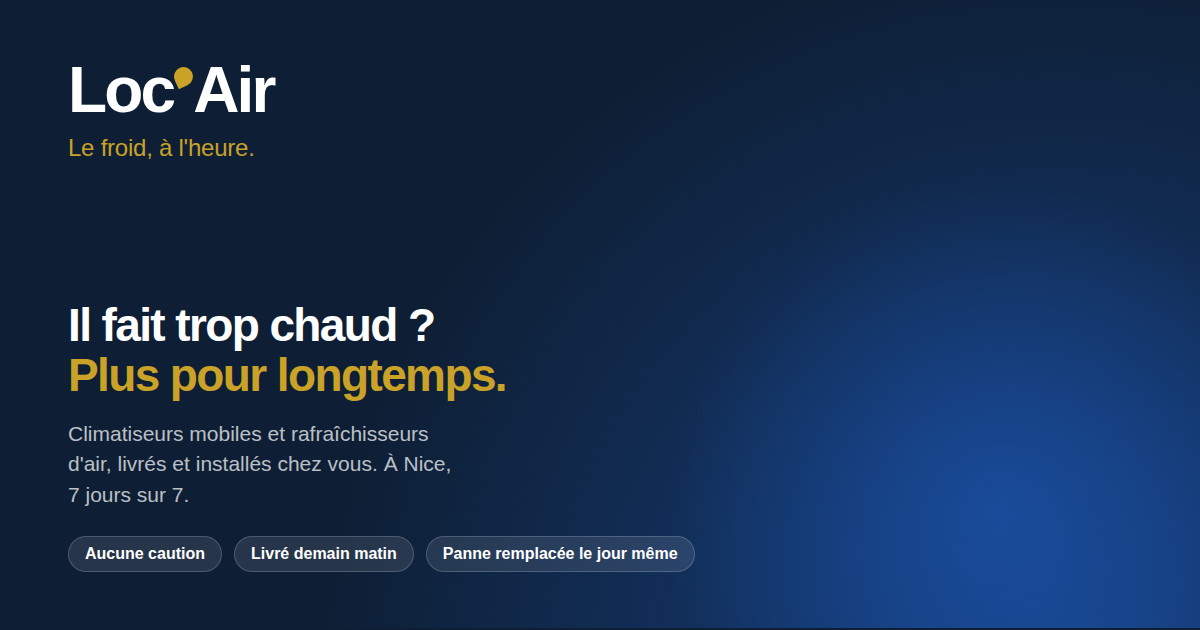
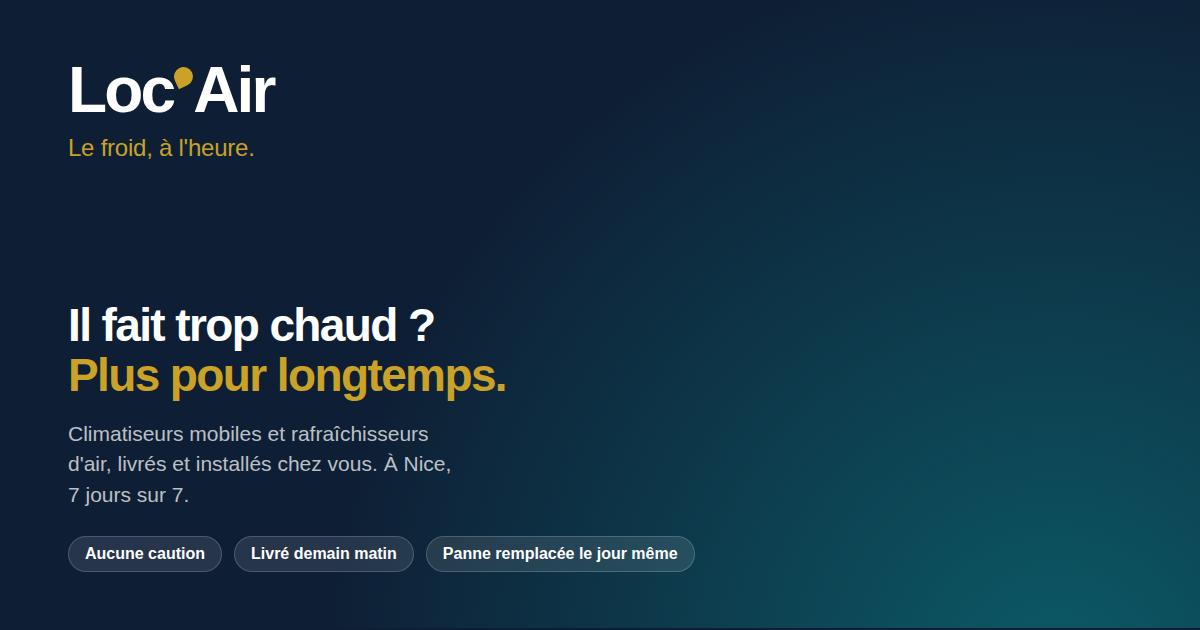
Une couleur qui appartient à Loc'Air
Marine + bleu roi + or, c'est la palette de toutes les banques en ligne :
rien ne s'y retient. Le bleu roi (#1D5BBF) laisse la place à une sarcelle
profonde (#0B6E77) — la couleur de l'eau et de l'air froid, exactement ce
que Loc'Air vend. Elle ne ressemble à aucun loueur de matériel, et
sarcelle + or est un couple que personne ne confond.

Le nom du jeton change aussi : --blue devient --vif. Il dit ce qu'il fait
— porter l'action — et non plus une couleur qui a changé. Zéro référence
à --blue reste dans le fichier.

DEUX TEXTES REMONTÉS AU PASSAGE

La sarcelle est un peu plus claire que l'ancien bleu roi : un blanc
translucide y contraste moins. Mesuré sur l'écran « Une panne ? » :
  le paragraphe, blanc à 78 %   4,31:1   sous la norme (4,5)
  la mention, blanc à 55 %      2,95:1   très en dessous
Les deux passent à 84 % : 4,74:1. Sur le marine, ils restent à 11,9:1.

TOUS LES CONTRASTES, VÉRIFIÉS

  bouton principal, blanc sur sarcelle       5,98:1
  lien sarcelle sur blanc                    5,98:1
  lien sarcelle sur la brume                 5,57:1
  survol (#08565E) sur blanc                 8,39:1
  titres blancs sur l'écran sarcelle         5,98:1
  surtitre blanc 82 %                        4,59:1
  la barre posée sur la sarcelle             9,84:1

La carte de partage est refaite dans la nouvelle couleur : sa nappe passe
du bleu roi à la sarcelle.

Vérifié au navigateur, les deux pages, 4 langues, de 320 à 1440 px :
[…]

Changed region(s): [[0.5858, 0.3921, 1.0, 1.0]]

diff --git a/locair.css b/locair.css
@@ -15,7 +15,17 @@
   /* Mesuré : l'ancien #95A3B3 donnait 2,57 pour 1 sur blanc, très en
      dessous du minimum lisible (4,5 selon WCAG AA). Assombri jusqu'à passer aussi sur le gris clair : 4,86. */
   --ink-3:#5F6E80;
-  --blue:#1D5BBF; --blue-d:#17489A; --blue-soft:#EEF3FC;
+  /* ── LA COULEUR D'ACTION ───────────────────────────────────────────────
+     Marine + bleu roi + or, c'est la palette de toutes les banques en
+     ligne : rien ne s'y retient. Le bleu roi laisse la place à une
+     sarcelle profonde — la couleur de l'eau et de l'air froid, exactement
+     ce que Loc'Air vend. Elle ne ressemble à aucun loueur, elle tient
+     très bien avec l'or (le seul couple de la marque), et elle passe
+     largement la norme d'accessibilité : blanc dessus 5,98:1, elle-même
+     en texte sur blanc 5,98:1, sur la brume 5,57:1.
+     Le nom du jeton dit ce qu'il fait — l'action — et non plus une
+     couleur qui a changé. */
+  --vif:#0B6E77; --vif-d:#08565E; --vif-clair:#E9F4F5;
   --gold:#C9A227;       /* accent — sur fond SOMBRE uniquement */
   /* Le même or sur blanc ne donne que 2,42 pour 1. Sur fond clair on
      utilise cette version assombrie (4,76), qui garde la teinte. */
@@ -90,7 +100,7 @@ button{font:inherit;cursor:pointer;border:none;background:none;color:inherit}
    L'anneau prend donc la couleur qui se voit sur son fond. Sur le marine
    c'est l'or de la marque : le repère d'accessibilité devient un signe
    de la marque au lieu d'un réglage de navigateur. */
-:root{--focus:var(--blue)}                    /* blanc, brume  → 6,36:1 */
+:root{--focus:var(--vif)}                    /* blanc, brume  → 6,36:1 */
 .e-ink,.menu,.cook,.infobar{--focus:var(--gold)}  /* marine    → 6,86:1 */
 .e-blue,.bar{--focus:#fff}          /* bleu, barre   → 6,36:1 */
 :focus-visible{outline:2.5px solid var(--focus);outline-offset:4px;border-radius:var(--r-s)}
@@ -112,7 +122,7 @@ button{font:inherit;cursor:pointer;border:none;background:none;color:inherit}
 
 /* fonds */
 .e-ink{background:var(--ink);color:var(--paper)}
-.e-blue{background:var(--blue);color:var(--paper)}
+.e-blue{background:var(--vif);color:var(--paper)}
 .e-mist{background:var(--mist)}
 
 /* ══ TYPOGRAPHIE ══
@@ -162,7 +172,7 @@ button{font:inherit;cursor:pointer;border:none;background:none;color:inherit}
 }
 .kicker{
   display:block;font-size:var(--s-1);font-weight:700;letter-spacing:var(--l-6);
-  text-transform:uppercase;color:var(--blue);margin-bottom:28px;
+  text-transform:uppercase;color:var(--vif);margin-bottom:28px;
 }
 .e-ink .kicker,.e-blue .kicker{color:var(--gold)}
 .e-blue .kicker{color:rgba(255,255,255,.82)}
@@ -175,19 +185,22 @@ button{font:inherit;cursor:pointer;border:none;background:none;color:inherit}
 .titre.t-2{font-size:var(--t-2)}
 .titre.t-3{font-size:var(--t-3)}
 .titre.t-4{font-size:var(--t-4)}
-.titre em{font-style:normal;color:var(--blue)}
+.titre em{font-style:normal;color:var(--vif)}
 .e-ink .titre em{color:var(--gold)}
 .e-blue .titre em,.e-ink.e-alt .titre em{color:#fff}
 .dire{font-size:var(--t-6);color:var(--ink-2);line-height:var(--h-4);max-width:44ch;margin-top:28px;letter-spacing:var(--l-4)}
 .e-ink .dire{color:rgba(255,255,255,.6)}
-.e-blue .dire{color:rgba(255,255,255,.78)}
+/* Mesuré sur la sarcelle : le blanc à 78 % donnait 4,31:1, sous la norme.
+   À 84 % il remonte à 4,76:1 — et sur le marine il reste à 11,9:1. */
+.e-blue .dire{color:rgba(255,255,255,.84)}
 .geant{
   font-size:var(--n-1);font-weight:700;letter-spacing:var(--l-1);
   line-height:.86;display:block;
 }
 .geant small{font-size:.24em;letter-spacing:var(--l-3);font-weight:700}
 .mini{font-size:var(--s-3);color:var(--ink-3);margin-top:22px;line-height:var(--h-4);max-width:40ch}
-.e-ink .mini,.e-blue .mini{color:rgba(255,255,255,.55)}
+.e-ink .mini{color:rgba(255,255,255,.55)}
+.e-blue .mini{color:rgba(255,255,255,.84)}
 
 /* ══ BOUTONS ══ */
 .btn{
@@ -195,8 +208,8 @@ button{font:inherit;cursor:pointer;border:none;background:none;color:inherit}
   padding:18px 32px;border-radius:var(--r-f);font-weight:700;font-size:var(--s-5);
   letter-spacing:var(--l-4);transition:background var(--mv-1) var(--mv),transform var(--mv-1) var(--mv),border-color var(--mv-1) var(--mv);
 }
-.btn-1{background:var(--blue);color:#fff}
-.btn-1:hover{background:var(--blue-d);transform:translateY(-2px)}
+.btn-1{background:var(--vif);color:#fff}
+.btn-1:hover{background:var(--vif-d);transform:translateY(-2px)}
 .btn-light{background:#fff;color:var(--ink)}
 /* Le bouton de la carte ambassadeur portait une classe qui n'existait
    nulle part : il s'affichait en texte nu, sans forme de bouton. Sur
@@ -400,7 +413,7 @@ button{font:inherit;cursor:pointer;border:none;background:none;color:inherit}
 }
 .etat-pt{
   /* même goutte que l'apostrophe du nom, en petit */
-  width:9px;height:9px;border-radius:50% 50% 50% 0;background:var(--blue);
+  width:9px;height:9px;border-radius:50% 50% 50% 0;background:var(--vif);
   flex-shrink:0;transform:translateY(-1px) rotate(-25deg);
   animation:pulse 2.4s ease-in-out infinite;
 }
@@ -447,7 +460,7 @@ button{font:inherit;cursor:pointer;border:none;background:none;color:inherit}
   transition:box-shadow var(--mv-1) var(--mv),border-color var(--mv-1) var(--mv);
 }
 .attente-i::placeholder{color:var(--ink-3)}
-.attente-i:focus{outline:none;border-color:var(--blue);box-shadow:0 0 0 3px rgba(29,91,191,.16)}
+.attente-i:focus{outline:none;border-color:var(--vif);box-shadow:0 0 0 3px rgba(29,91,191,.16)}
 .attente-b{flex:0 0 auto}
 .attente-m{font-size:var(--s-2);line-height:var(--h-4);color:var(--ink-3);margin-top:11px}
 .attente-ok{color:var(--green);font-weight:700}
@@ -505,11 +518,11 @@ button{font:inherit;cursor:pointer;border:none;background:none;color:inherit}
   transition:box-shadow var(--mv-1) var(--mv),border-color var(--mv-1) var(--mv);
 }
 .ch input::placeholder{color:var(--ink-3)}
-.ch input:focus{outline:none;border-color:var(--blue);box-shadow:0 0 0 3px rgba(29,91,191,.16)}
+.ch input:focus{outline:none;border-color:var(--vif);box-shadow:0 0 0 3px rgba(29,91,191,.16)}
 .ch:first-child,.ch:nth-child(2){grid-column:span 1}
 .form-b{margin-top:14px}
 .form-note{font-size:var(--s-2);line-height:var(--h-4);color:var(--ink-3);margin:11px 0 0;max-width:56ch}
-.form-note.form-err{color:var(--blue);font-weight:700}
+.form-note.form-err{color:var(--vif);font-weight:700}
 @media(max-width:700px){
   .form-l{grid-template-columns:1fr}
   .form-b{width:100%;justify-content:center}
@@ -543,7 +556,7 @@ button{font:inherit;cursor:pointer;border:none;background:none;color:inherit}
   display:flex;align-items:center;justify-content:center;
   width:30px;height:30px;border-radius:50%;margin-bottom:6px;
   font-size:var(--s-3);font-weight:700;font-variant-numeric:tabular-nums;
-  background:var(--blue);color:#fff;
+  background:var(--vif);color:#fff;
 }
 .etapes b{font-size:var(--s-5);line-height:var(--h-2);letter-spacing:var(--l-3);color:var(--ink)}
 .etapes span:not(.etape-n){font-size:var(--s-3);line-height:var(--h-4);color:var(--ink-2)}
@@ -788,7 +801,7 @@ button{font:inherit;cursor:pointer;border:none;background:none;color:inherit}
 .addr{background:#fff;border-radius:var(--r-l);padding:18px;margin-top:28px;max-width:460px;box-shadow:var(--o-2)}
 .addr label{display:block;font-size:var(--s-1);font-weight:700;letter-spacing:var(--l-6);text-transform:uppercase;color:var(--ink-3);margin-bottom:13px}
 .addr-row{display:flex;align-items:center;gap:12px;background:var(--mist);border-radius:var(--r);padding:15px 17px;transition:box-shadow var(--mv-1) var(--mv)}
-.addr-row:focus-within{box-shadow:inset 0 0 0 2px var(--blue)}
+.addr-row:focus-within{box-shadow:inset 0 0 0 2px var(--vif)}
 .addr-row svg{flex-shrink:0;color:var(--ink-3)}
 .addr-row input{flex:1;min-width:0;border:none;outline:none;font:inherit;font-size:var(--s-4);color:var(--ink);background:none}
 .addr-row input::placeholder{color:var(--ink-3)}
@@ -837,7 +850,7 @@ button{font:inherit;cursor:pointer;border:none;background:none;color:inherit}
 .mach-d{font-size:var(--s-4);color:var(--ink-2);line-height:var(--h-5);margin-top:12px}
 .mach-l{margin-top:auto;padding-top:20px;display:flex;flex-direction:column;gap:11px}
 .mach-l li{list-style:none;display:flex;gap:10px;font-size:var(--s-3);line-height:var(--h-4);color:var(--ink)}
-.mach-l li::before{content:'';width:5px;height:5px;border-radius:50%;background:var(--blue);flex-shrink:0;margin-top:7px}
+.mach-l li::before{content:'';width:5px;height:5px;border-radius:50%;background:var(--vif);flex-shrink:0;margin-top:7px}
 .mach-l b{font-weight:700}
 @media(max-width:760px){.deux{grid-template-columns:1fr}}
 
@@ -864,7 +877,7 @@ button{font:inherit;cursor:pointer;border:none;background:none;color:inherit}
   display:flex;align-items:center;justify-content:center;margin-top:2px}
 .mcard-i svg{width:24px;height:24px}
 .mcard-t{font-size:var(--s-5);font-weight:700;letter-spacing:var(--l-3);color:var(--ink);align-self:end}
-.mcard-c{font-size:var(--s-1);font-weight:700;letter-spacing:var(--l-5);text-transform:uppercase;color:var(--blue)}
+.mcard-c{font-size:var(--s-1);font-weight:700;letter-spacing:var(--l-5);text-transform:uppercase;color:var(--vif)}
 .mcard-d{grid-column:2/3;font-size:var(--s-3);color:var(--ink-2);line-height:var(--h-4);margin-top:6px}
 .choix-n{font-size:var(--s-3);color:var(--ink-2);line-height:var(--h-4);padding-left:2px}
 /* Sous 900 px la colonne de droite passait sous le formulaire ; le choix,
@@ -949,8 +962,8 @@ button{font:inherit;cursor:pointer;border:none;background:none;color:inherit}
 .tier-dur{font-size:var(--s-4);color:var(--ink-2)}
 .tier-p{font-size:var(--s-6);font-weight:700;letter-spacing:var(--l-2);white-space:nowrap}
 .tier-p i{font-style:normal;font-size:var(--s-2);font-weight:500;color:var(--ink-3)}
-.tier.best .tier-dur,.tier.best .tier-p{color:var(--blue)}
-.tier-off{font-size:var(--s-2);font-weight:700;color:var(--blue);margin-left:8px}
+.tier.best .tier-dur,.tier.best .tier-p{color:var(--vif)}
+.tier-off{font-size:var(--s-2);font-weight:700;color:var(--vif);margin-left:8px}
 @media(max-width:900px){.prix-grid{grid-template-columns:1fr;gap:28px}}
 
 /* ══ CALCULATEUR ══ */
@@ -1032,7 +1045,7 @@ button{font:inherit;cursor:pointer;border:none;background:none;color:inherit}
 .chip-p{display:flex;flex-direction:column;align-items:flex-start;gap:2px;
   border-radius:var(--r);padding:10px 14px;text-align:left;line-height:var(--h-2)}
 .chip-p i{font-style:normal;font-size:var(--s-2);font-weight:700;color:var(--gold)}
-.chip-p[aria-pressed="true"] i{color:var(--blue-d)}
+.chip-p[aria-pressed="true"] i{color:var(--vif-d)}
 
 /* ── Le panneau du prix ────────────────────────────────────────────────── */
 .calc-somme{display:block;font-size:clamp(40px,4.6vw,58px);font-weight:700;
@@ -1133,9 +1146,9 @@ button{font:inherit;cursor:pointer;border:none;background:none;color:inherit}
 .faq details{border-bottom:1px solid var(--line)}
 .faq summary{padding:20px 44px 20px 0;font-size:var(--s-5);font-weight:700;letter-spacing:var(--l-3);cursor:pointer;list-style:none;position:relative;line-height:var(--h-3)}
 .faq summary::-webkit-details-marker{display:none}
-.faq summary::after{content:'';position:absolute;right:6px;top:50%;width:10px;height:10px;border-right:2px solid var(--blue);border-bottom:2px solid var(--blue);transform:translateY(-70%) rotate(45deg);transition:transform var(--mv-2) var(--mv)}
+.faq summary::after{content:'';position:absolute;right:6px;top:50%;width:10px;height:10px;border-right:2px solid var(--vif);border-bottom:2px solid var(--vif);transform:translateY(-70%) rotate(45deg);transition:transform var(--mv-2) var(--mv)}
 .faq details[open] summary::after{transform:translateY(-30%) rotate(-135deg)}
-.faq details[open] summary{color:var(--blue)}
+.faq details[open] summary{color:var(--vif)}
 .faq p{padding:0 36px 24px 0;font-size:var(--s-4);color:var(--ink-2);line-height:var(--h-5)}
 
 /* ══ ÉCRAN FINAL ══ */
@@ -1200,7 +1213,7 @@ button{font:inherit;cursor:pointer;border:none;background:none;color:inherit}
 .lang-l.on{opacity:1;visibility:visible;transform:none}
 .lang-l button{display:flex;align-items:center;gap:11px;width:100%;padding:11px 13px;border-radius:var(--r-s);font-size:var(--s-3);color:var(--ink);text-align:left;transition:background var(--mv-1) var(--mv)}
 .lang-l button:hover{background:var(--mist)}
-.lang-l button[aria-selected="true"]{font-weight:700;background:var(--blue-soft);color:var(--blue)}
+.lang-l button[aria-selected="true"]{font-weight:700;background:var(--vif-clair);color:var(--vif)}
 .lang-l b{font-size:var(--s-4);line-height:1}
 /* dans le menu plein écran, la même liste mais à plat */
 .menu-lang{display:flex;gap:8px;flex-wrap:wrap}
